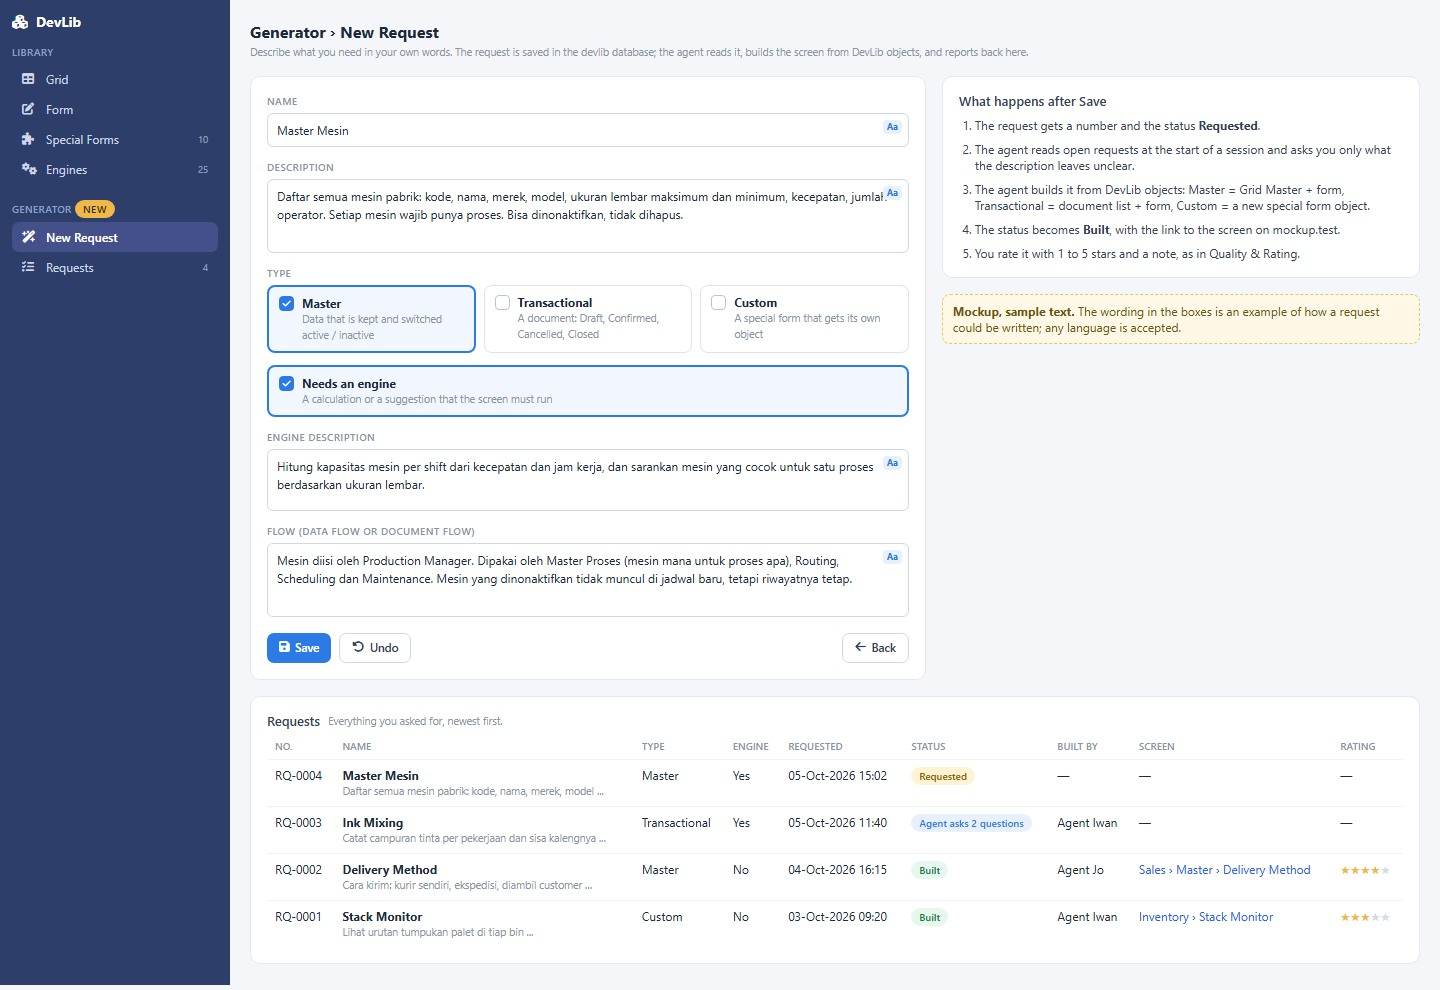
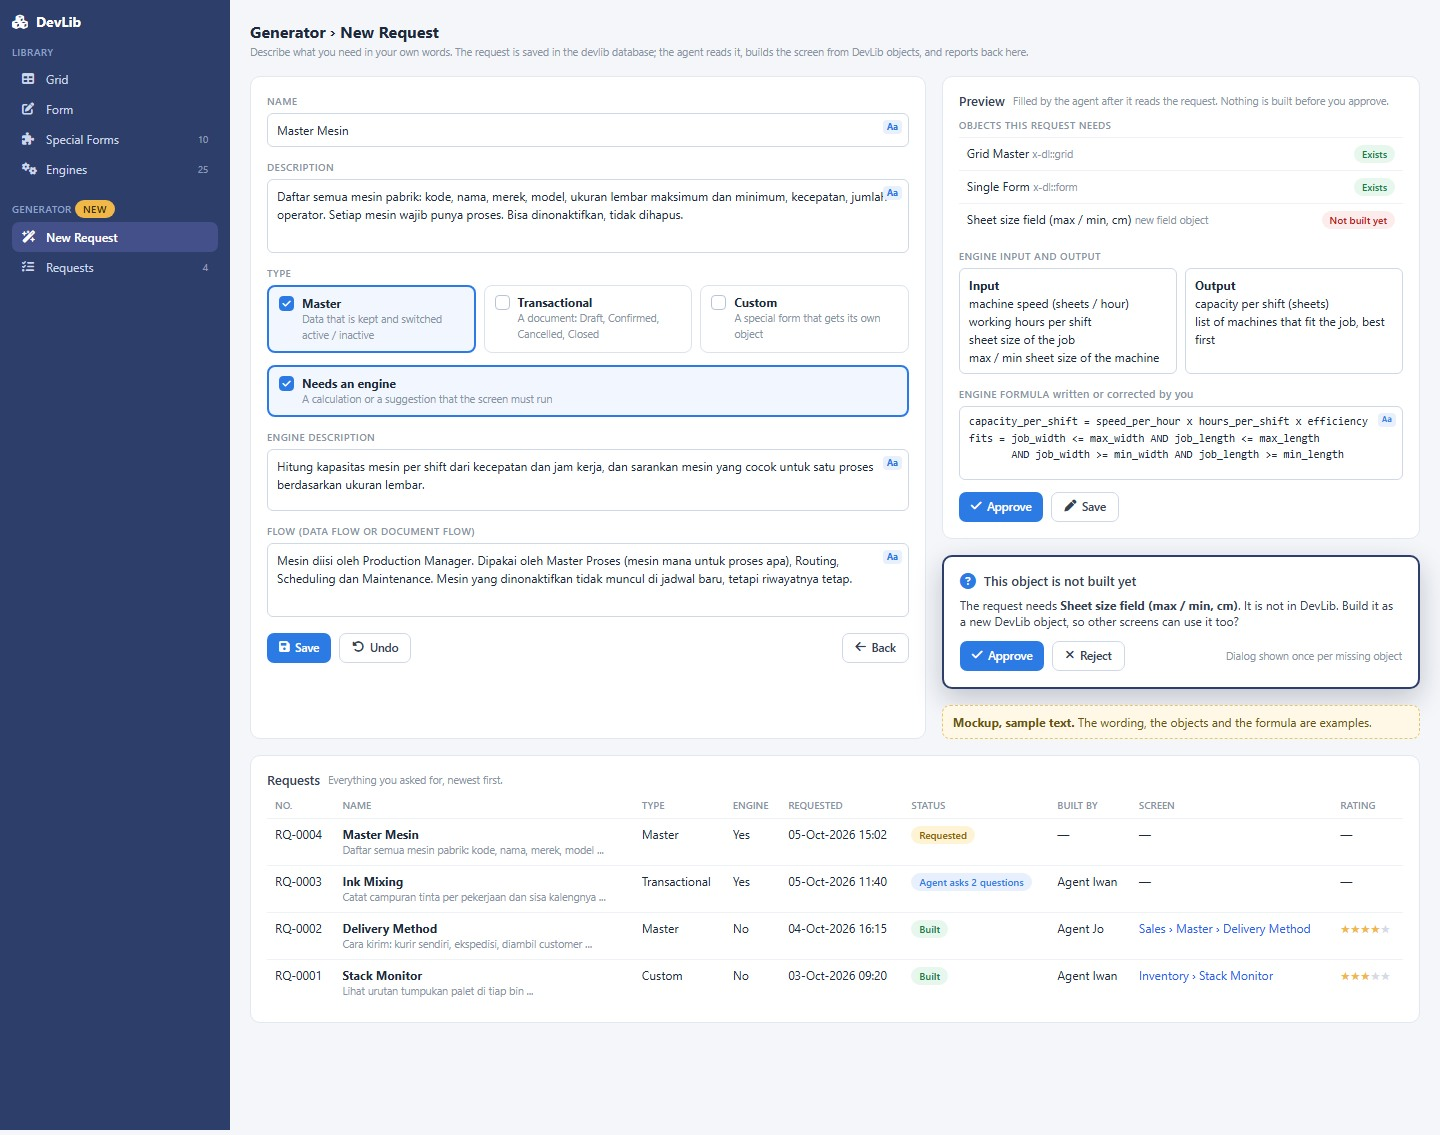
Mockup: Generator request form gets a Preview (objects needed, engine input / output, engine formula box) and the approval dialog for a missing object
Agent: Iwan

diff --git a/docs/mockups/devlib_generator.html b/docs/mockups/devlib_generator.html
@@ -31,7 +31,7 @@
 <body class="text-xs text-slate-800">
 <div class="flex" style="width:1440px">
 
-  <aside class="p-3 shrink-0" style="width:230px;background:#2c3e69;min-height:985px">
+  <aside class="p-3 shrink-0" style="width:230px;background:#2c3e69;min-height:1130px">
     <div class="flex items-center gap-2 text-white font-bold text-sm mb-3"><i class="fa-solid fa-cubes"></i> DevLib</div>
     <div class="lbl mb-1" style="color:#8fa0c8">Library</div>
     <div class="mi"><i class="fa-solid fa-table w-4"></i> Grid</div>
@@ -87,16 +87,42 @@
 
       <section class="col-span-5 space-y-4">
         <div class="card p-4">
-          <div class="ttl mb-2">What happens after Save</div>
-          <ol class="space-y-2 text-slate-700" style="list-style:decimal;padding-left:16px">
-            <li>The request gets a number and the status <b>Requested</b>.</li>
-            <li>The agent reads open requests at the start of a session and asks you only what the description leaves unclear.</li>
-            <li>The agent builds it from DevLib objects: Master = Grid Master + form, Transactional = document list + form, Custom = a new special form object.</li>
-            <li>The status becomes <b>Built</b>, with the link to the screen on mockup.test.</li>
-            <li>You rate it with 1 to 5 stars and a note, as in Quality &amp; Rating.</li>
-          </ol>
+          <div class="flex items-center mb-2"><span class="ttl">Preview</span><span class="q ml-2">Filled by the agent after it reads the request. Nothing is built before you approve.</span></div>
+
+          <div class="lbl mb-1">Objects this request needs</div>
+          <table class="w-full mb-3">
+            <tbody>
+              <tr><td>Grid Master <span class="q">x-dl::grid</span></td><td style="text-align:right"><span class="bdg" style="background:#e7f7ee;color:#15803d">Exists</span></td></tr>
+              <tr><td>Single Form <span class="q">x-dl::form</span></td><td style="text-align:right"><span class="bdg" style="background:#e7f7ee;color:#15803d">Exists</span></td></tr>
+              <tr><td>Sheet size field (max / min, cm) <span class="q">new field object</span></td><td style="text-align:right"><span class="bdg" style="background:#fdecec;color:#b91c1c">Not built yet</span></td></tr>
+            </tbody>
+          </table>
+
+          <div class="lbl mb-1">Engine input and output</div>
+          <div class="grid grid-cols-2 gap-2 mb-3">
+            <div class="inp" style="min-height:84px"><b>Input</b><br>machine speed (sheets / hour)<br>working hours per shift<br>sheet size of the job<br>max / min sheet size of the machine</div>
+            <div class="inp" style="min-height:84px"><b>Output</b><br>capacity per shift (sheets)<br>list of machines that fit the job, best first</div>
+          </div>
+
+          <div class="lbl mb-1">Engine formula <span class="q" style="text-transform:none">written or corrected by you</span></div>
+          <div class="inp" style="min-height:74px;font-family:Consolas,monospace;font-size:11px">capacity_per_shift = speed_per_hour x hours_per_shift x efficiency<br>fits = job_width &lt;= max_width AND job_length &lt;= max_length<br>&nbsp;&nbsp;&nbsp;&nbsp;&nbsp;&nbsp; AND job_width &gt;= min_width AND job_length &gt;= min_length<span class="aa">Aa</span></div>
+          <div class="flex gap-2 mt-3">
+            <span class="btn p"><i class="fa-solid fa-check"></i> Approve</span>
+            <span class="btn s"><i class="fa-solid fa-pen"></i> Save</span>
+          </div>
         </div>
-        <div class="note"><b>Mockup, sample text.</b> The wording in the boxes is an example of how a request could be written; any language is accepted.</div>
+
+        <div class="card p-4" style="border:2px solid #2c3e69;box-shadow:0 10px 28px rgba(15,23,42,.22)">
+          <div class="flex items-center gap-2 mb-2"><i class="fa-solid fa-circle-question" style="color:#2c7be5;font-size:16px"></i><span class="ttl">This object is not built yet</span></div>
+          <div class="text-slate-700">The request needs <b>Sheet size field (max / min, cm)</b>. It is not in DevLib. Build it as a new DevLib object, so other screens can use it too?</div>
+          <div class="flex gap-2 mt-3">
+            <span class="btn p"><i class="fa-solid fa-check"></i> Approve</span>
+            <span class="btn s"><i class="fa-solid fa-xmark"></i> Reject</span>
+            <span class="q ml-auto" style="align-self:center">Dialog shown once per missing object</span>
+          </div>
+        </div>
+
+        <div class="note"><b>Mockup, sample text.</b> The wording, the objects and the formula are examples.</div>
       </section>
     </div>
 
